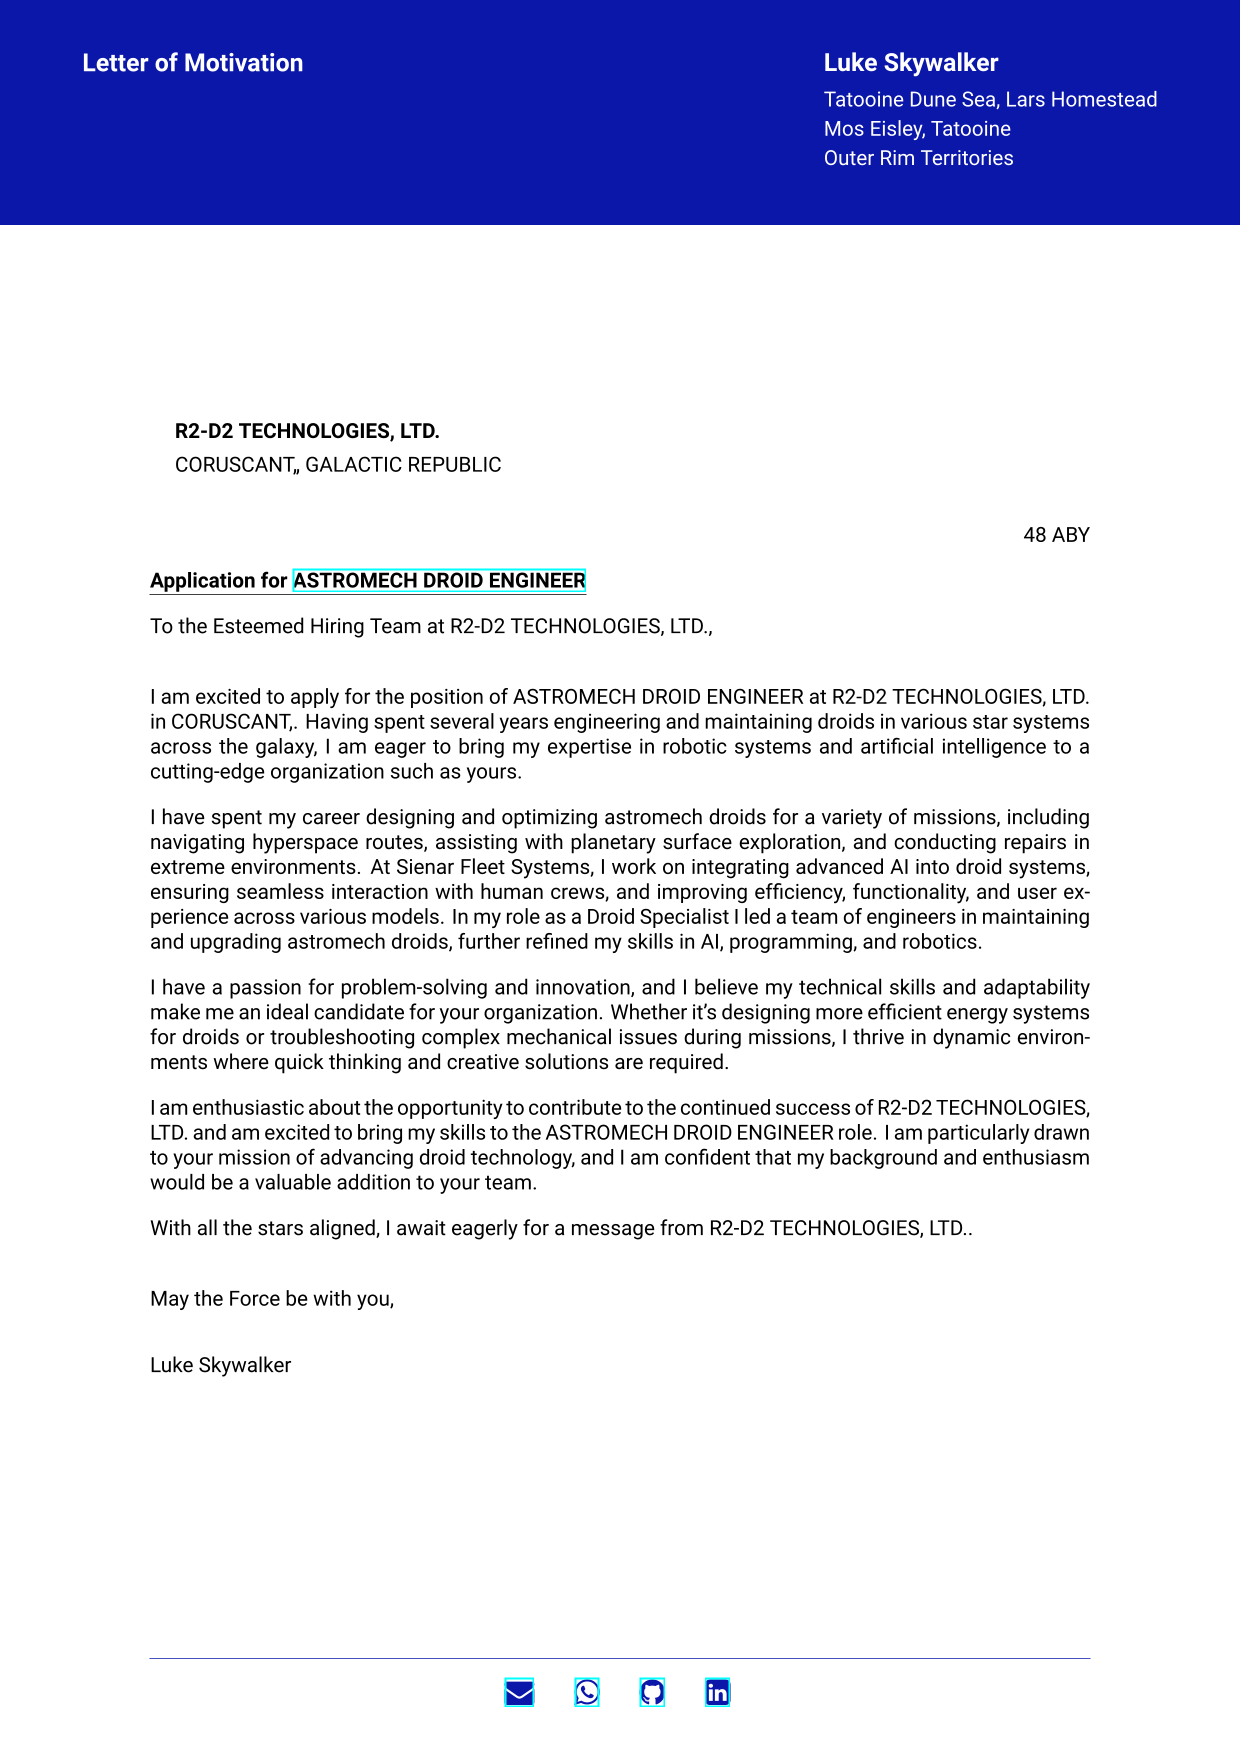
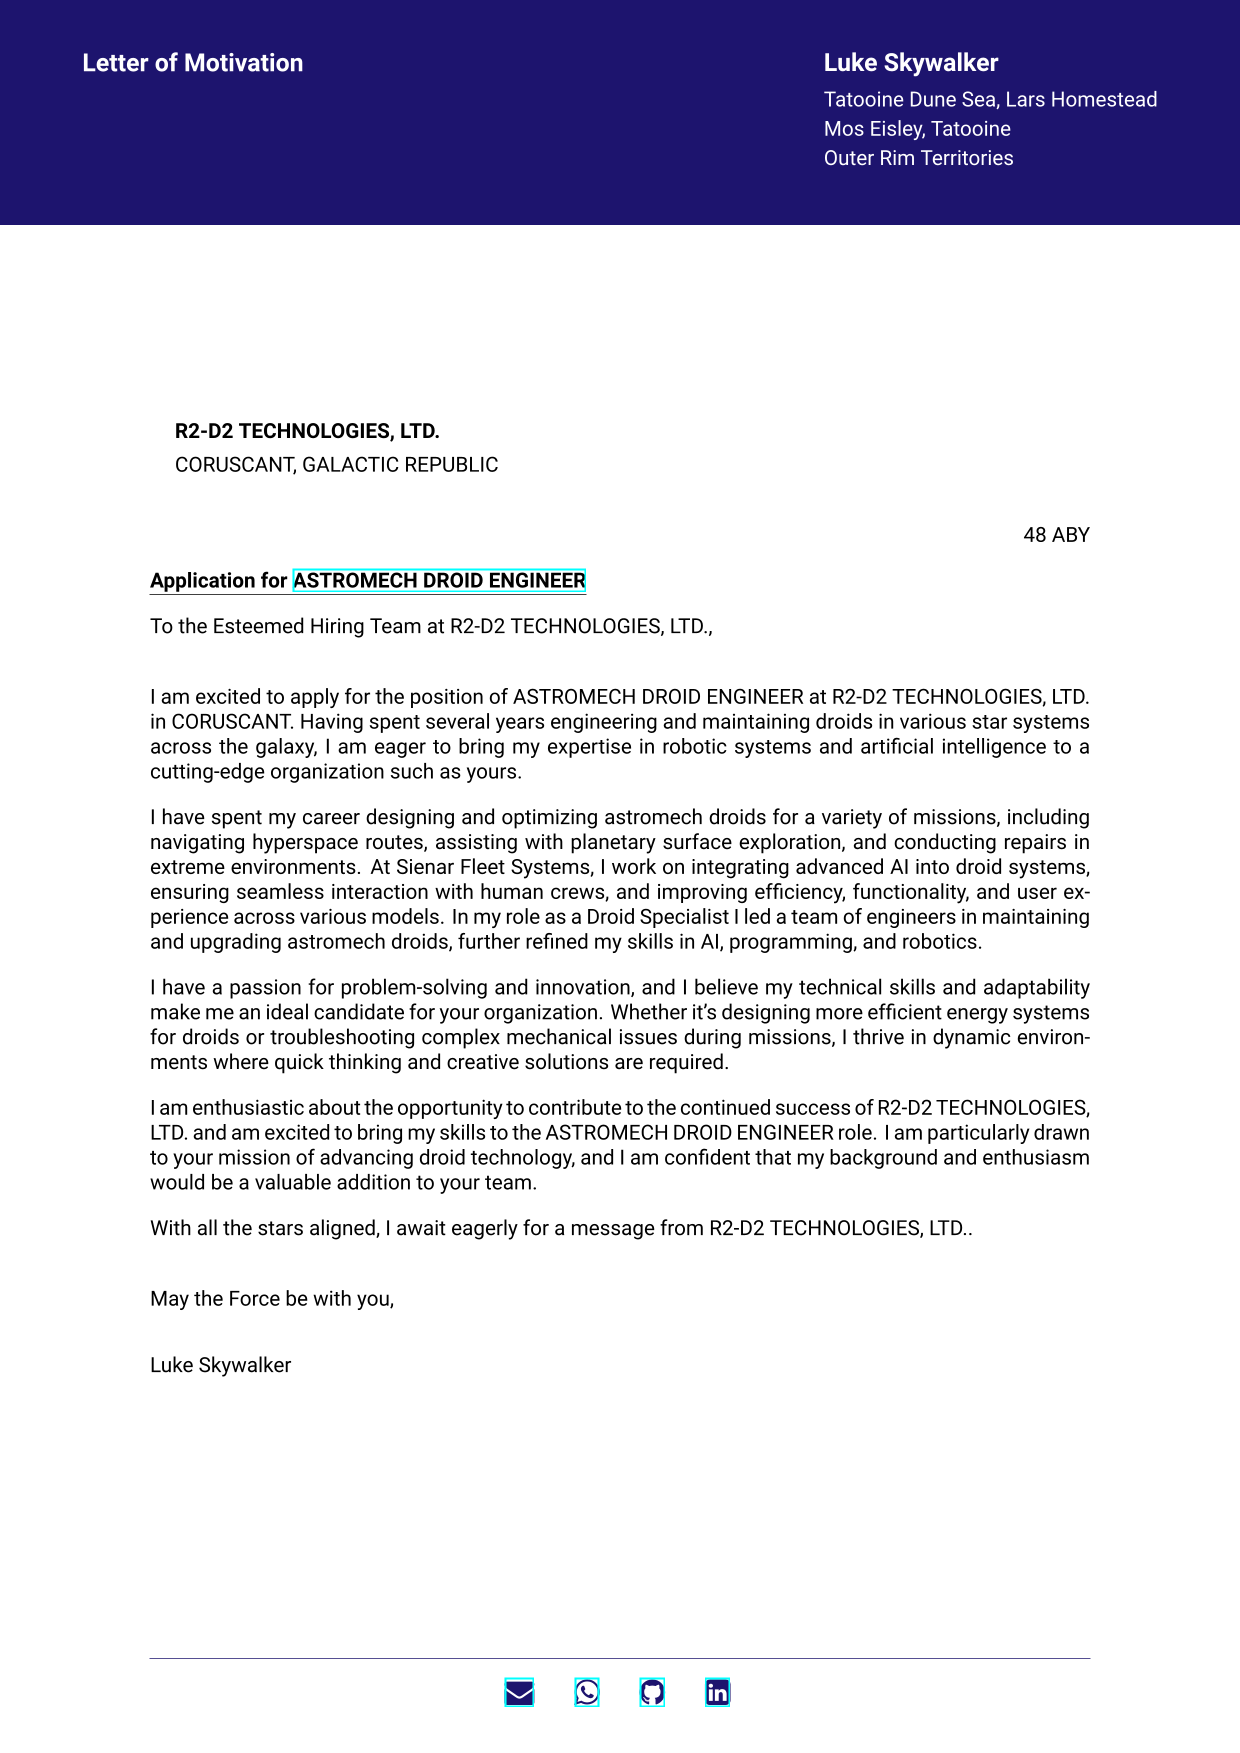
change form

diff --git a/generate_form.py b/generate_form.py
@@ -3,14 +3,14 @@ import tkinter as tk
 # Default color value
 DEFAULT_COLOR = "#333333"
 
-def create_form(on_generate_tex, on_generate_pdf):
+def generate_form(on_generate_tex, on_generate_pdf):
     # Create the main Tkinter window
     root = tk.Tk()
     root.title("Cover Letter Generator")
 
     # Center the window on the screen
-    window_width = 450
-    window_height = 450
+    window_width = 400
+    window_height = 470
     screen_width = root.winfo_screenwidth()
     screen_height = root.winfo_screenheight()
     x_position = (screen_width - window_width) // 2
@@ -30,31 +30,48 @@ def create_form(on_generate_tex, on_generate_pdf):
     cleanup_var = tk.BooleanVar(value=True)    # Checkbox for cleanup (default: True)
     placeholder_var = tk.BooleanVar(value=False)  # Checkbox for placeholders
 
+    # Function to update company name based on checkbox state
+    def update_entries():
+        if placeholder_var.get():  # If the checkbox is checked
+            company_var.set("R2-D2 TECHNOLOGIES, LTD.")
+            role_var.set("ASTROMECH DROID ENGINEER")  
+            city_var.set("CORUSCANT") 
+            country_var.set("GALACTIC REPUBLIC")
+            url_var.set("https://www.esa.int/About_Us/Careers_at_ESA/Apply_now_to_become_an_ESA_astronaut")
+            color_var.set("#1d146e")
+        else:
+            company_var.set("")  # Clear the company name if not checked
+            role_var.set("")  # Clear role
+            city_var.set("")  # Clear city
+            country_var.set("")  # Clear country
+            url_var.set("")  # Clear URL
+            color_var.set("#333333")
+
     # CONTENT
     # Create a LabelFrame to group the inputs with a title
-    frame_inputs = tk.LabelFrame(root, text="Content", padx=10, pady=10)
-    frame_inputs.pack(padx=10, pady=10)
+    frame_inputs = tk.LabelFrame(root, text="Job Posting", padx=10, pady=10)
+    frame_inputs.pack(padx=10, pady=10, fill="both", expand=True)
 
     # Use grid layout to arrange labels and entry fields side by side
     tk.Label(frame_inputs, text="Company").grid(row=0, column=0, padx=10, pady=5, sticky="e")
-    tk.Entry(frame_inputs, textvariable=company_var).grid(row=0, column=1, padx=10, pady=5)
+    tk.Entry(frame_inputs, textvariable=company_var, width=30).grid(row=0, column=1, padx=10, pady=5)
 
     tk.Label(frame_inputs, text="Role").grid(row=1, column=0, padx=10, pady=5, sticky="w")
-    tk.Entry(frame_inputs, textvariable=role_var).grid(row=1, column=1, padx=10, pady=5)
+    tk.Entry(frame_inputs, textvariable=role_var, width=30).grid(row=1, column=1, padx=10, pady=5)
 
     tk.Label(frame_inputs, text="URL").grid(row=2, column=0, padx=10, pady=5, sticky="w")
-    tk.Entry(frame_inputs, textvariable=url_var).grid(row=2, column=1, padx=10, pady=5)
+    tk.Entry(frame_inputs, textvariable=url_var, width=30).grid(row=2, column=1, padx=10, pady=5)
 
     tk.Label(frame_inputs, text="City").grid(row=3, column=0, padx=10, pady=5, sticky="w")
-    tk.Entry(frame_inputs, textvariable=city_var).grid(row=3, column=1, padx=10, pady=5)
+    tk.Entry(frame_inputs, textvariable=city_var, width=30).grid(row=3, column=1, padx=10, pady=5)
 
     tk.Label(frame_inputs, text="Country").grid(row=4, column=0, padx=10, pady=5, sticky="w")
-    tk.Entry(frame_inputs, textvariable=country_var).grid(row=4, column=1, padx=10, pady=5)
+    tk.Entry(frame_inputs, textvariable=country_var, width=30).grid(row=4, column=1, padx=10, pady=5)
 
     # SETTINGS
     # Create a LabelFrame to group the inputs with a title
     frame_settings = tk.LabelFrame(root, text="Settings", padx=10, pady=10)
-    frame_settings.pack(padx=10, pady=10)
+    frame_settings.pack(padx=10, pady=10, fill="both", expand=True)
 
     # Use grid for the label and entry side by side
     tk.Label(frame_settings, text="Color", anchor="w").grid(row=0, column=0, padx=10, pady=5, sticky="w")
@@ -63,12 +80,11 @@ def create_form(on_generate_tex, on_generate_pdf):
     # Checkbuttons for additional options (aligned to the left)
     tk.Checkbutton(frame_settings, text="Filename with timestamp", variable=timestamp_var, anchor="w").grid(row=1, column=0, columnspan=2, pady=5, padx=10, sticky="w")
     tk.Checkbutton(frame_settings, text="Delete LaTeX log and auxiliary files", variable=cleanup_var, anchor="w").grid(row=2, column=0, columnspan=2, pady=5, padx=10, sticky="w")
-    tk.Checkbutton(frame_settings, text="Use STARSWARS placeholders", variable=placeholder_var, anchor="w").grid(row=3, column=0, columnspan=2, pady=5, padx=10, sticky="w")
+    tk.Checkbutton(frame_settings, text="Use STARSWARS placeholders", variable=placeholder_var, anchor="w", command=update_entries).grid(row=3, column=0, columnspan=2, pady=5, padx=10, sticky="w")
 
     # Create a frame for the buttons at the bottom
     button_frame = tk.Frame(root)
     button_frame.pack(side="bottom", pady=10)
-
 
     # Buttons to trigger actions
     generate_tex_button = tk.Button(
@@ -81,8 +97,7 @@ def create_form(on_generate_tex, on_generate_pdf):
             city_var, 
             country_var, 
             color_var,
-            timestamp_var, 
-            placeholder_var
+            timestamp_var
         )
     )
     generate_tex_button.pack(side="left", padx=10)

diff --git a/main.py b/main.py
@@ -3,7 +3,7 @@ import subprocess
 import tkinter as tk
 from tkinter import messagebox
 
-from form import create_form
+from generate_form import generate_form
 from generate_tex import generate_tex
 from generate_pdf import generate_pdf
 from cleanup_folder import cleanup_folder
@@ -12,24 +12,16 @@ from cleanup_folder import cleanup_folder
 def get_default_value(value, default_value):
     return value.strip() if value and value.strip() else default_value
 
-def on_generate_tex(company_var, role_var, url_var, city_var, country_var, color_var, timestamp_var, placeholder_var):
+def on_generate_tex(company_var, role_var, url_var, city_var, country_var, color_var, timestamp_var):
     USE_FILENAME_WITH_TIMESTAMP = timestamp_var.get()
-    USE_STARWARS_PLACEHOLDERS = placeholder_var.get()
     COLOR = color_var.get()
 
     # Get values from Tkinter StringVars
-    if USE_STARWARS_PLACEHOLDERS:
-        company = get_default_value(company_var.get(), "R2-D2 TECHNOLOGIES, LTD.").upper()
-        role = get_default_value(role_var.get(), "ASTROMECH DROID ENGINEER").upper()
-        city = get_default_value(city_var.get(), "CORUSCANT,").upper()
-        country = get_default_value(country_var.get(), "GALACTIC REPUBLIC").upper()
-        url = get_default_value(url_var.get(), "https://www.esa.int/About_Us/Careers_at_ESA/Apply_now_to_become_an_ESA_astronaut")
-    else:
-        company = company_var.get()
-        role = role_var.get()
-        city =city_var.get()
-        country = country_var.get()
-        url = url_var.get()
+    company = company_var.get()
+    role = role_var.get()
+    city =city_var.get()
+    country = country_var.get()
+    url = url_var.get()
 
     # Generate .tex file and return its path
     tex_file_path = generate_tex(company, role, url, city, country, COLOR, USE_FILENAME_WITH_TIMESTAMP)
@@ -62,7 +54,7 @@ if __name__ == "__main__":
     tex_file = None
 
     # Create the form and pass necessary functions
-    top, generate_pdf_button = create_form(on_generate_tex, on_generate_pdf)
+    form, generate_pdf_button = generate_form(on_generate_tex, on_generate_pdf)
 
     # Run the Tkinter event loop
-    top.mainloop()
+    form.mainloop()

diff --git a/tex/coverletter.tex b/tex/coverletter.tex
@@ -34,7 +34,7 @@
 \setlength{\parskip}{1em} % Vertical space between paragraphs
 
 
-\definecolor{cvcolor}{HTML}{0a17a8}
+\definecolor{cvcolor}{HTML}{1d146e}
 
 %----------------------------------------------------------------------------------------
 
@@ -107,7 +107,7 @@
 \newcommand{\COMPANY}{R2-D2 TECHNOLOGIES, LTD.}
 \newcommand{\ROLE}{ASTROMECH DROID ENGINEER}
 \newcommand{\JobPostingURL}{https://www.esa.int/About_Us/Careers_at_ESA/Apply_now_to_become_an_ESA_astronaut}
-\newcommand{\CITY}{CORUSCANT,}
+\newcommand{\CITY}{CORUSCANT}
 \newcommand{\COUNTRY}{GALACTIC REPUBLIC}
 
 \begin{tabular}{@{}p{0cm}l@{}} 
